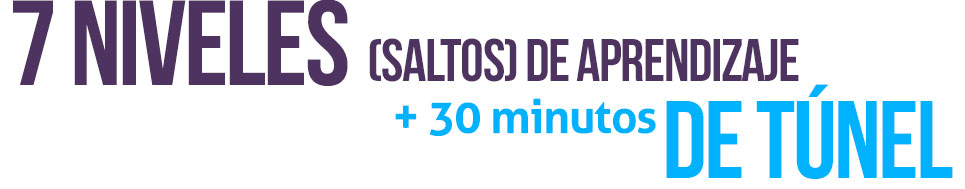
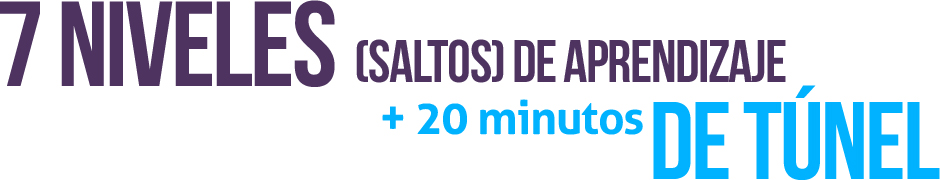
.

Changed region(s): [[0.0, 0.0, 1.0, 1.0]]

diff --git a/plantillas/academia.php b/plantillas/academia.php
@@ -10,7 +10,7 @@ get_header("academia");
 <section id="niveles-academia">
     <div class="wrapper">
         <img src="<?php echo get_template_directory_uri(); ?>/less/img/academia/7niveles.jpg"
-            alt="7 niveles (saltos) de aprendizaje + 40 min de Túnel">
+            alt="7 niveles (saltos) de aprendizaje + 20 min de Túnel">
         <p>En el centro de Paracaidismo de Tequesquitengo, Skydive México y Academia Paracaidismo ofrecemos cursos de
             caída libre acelerada (AFF). Tu seguridad y aprendizaje son nuestros objetivos principales.</p>
 
@@ -21,7 +21,7 @@ get_header("academia");
                     <h2>NIVEL 1</h2>
                     <p>Teoría y 1er nivel (salto).</p>
                     <p>Duración: ½ - ¾ de día. Llegar 9am.</p>
-                    <p>Incluye 4 minutos de práctica en túnel.</p>
+                    
                 </div>
             </div>
             <div class="column">
@@ -37,7 +37,7 @@ get_header("academia");
                     <h2>NIVEL 3</h2>
                     <p>Introducción a giros y avances.
                         Duración: 3 horas.</p>
-                    <p>Incluye 8 minutos de práctica en el túnel.</p>
+                    <p>Incluye 4 minutos de práctica en el túnel.</p>
                 </div>
             </div>
             <div class="column">
@@ -45,7 +45,7 @@ get_header("academia");
                     <h2>NIVEL 4</h2>
                     <p>Demuestra tu habilidad para volar solo y mantener rumbo.
                         Duración: 3 horas.</p>
-                    <p>Incluye 10 minutos de práctica en el túnel.</p>
+                    <p>Incluye 6 minutos de práctica en el túnel.</p>
                 </div>
             </div>
         </div>
@@ -56,7 +56,7 @@ get_header("academia");
                     <h2>NIVEL 5</h2>
                     <p>Salida sin contacto y estabilidad.
                         Duración: 3 horas.</p>
-                    <p>Incluye 6 minutos de práctica en el túnel.</p>
+                    <p>Incluye 4 minutos de práctica en el túnel.</p>
                 </div>
             </div>
             <div class="column">
@@ -88,12 +88,12 @@ get_header("academia");
         </div>
 
         <div class="info">
-            <p><strong>SE INCLUYEN 40 MINUTOS DE PRÁCTICA EN EL TÚNEL DE VIENTO TORNADO.</strong></p>
+            <p><strong>SE INCLUYEN 20 MINUTOS DE PRÁCTICA EN EL TÚNEL DE VIENTO TORNADO.</strong></p>
 
             <p>Esta práctica, además de aumentar tu seguridad y confianza en caída libre, te ayuda a progresar mucho más
                 rápido en tu curso de paracaidismo. Aparte de ser una actividad divertida y única en México. <strong> ES
                     El
-                ÚNICO CURSO EN EL MUNDO</strong> que ya incluye 40 minutos de túnel de viento, equivalentes a más de
+                ÚNICO CURSO EN EL MUNDO</strong> que ya incluye 20 minutos de túnel de viento, equivalentes a más de
                         30
                         saltos del avión!</p>
         </div>
@@ -115,7 +115,7 @@ get_header("academia");
                 </tr>
             </thead>
             <tr class="total">
-                <td colspan="2">1° práctica en túnel de viento: 4 minutos</td>
+                <td colspan="2">&nbsp;</td>
                 <td>Incluido</td>
                 <td>Incluido</td>
 
@@ -141,7 +141,7 @@ get_header("academia");
 
             </tr>
             <tr class="total">
-                <td colspan="2">3° práctica en túnel de viento: 8 minutos</td>
+                <td colspan="2">3° práctica en túnel de viento: 4 minutos</td>
                 <td>Incluido</td>
                 <td>Incluido</td>
 
@@ -156,7 +156,7 @@ get_header("academia");
 
             </tr>
             <tr class="total">
-                <td colspan="2">4° práctica en túnel de viento: 10 minutos</td>
+                <td colspan="2">4° práctica en túnel de viento: 6 minutos</td>
                 <td>Incluido</td>
                 <td>Incluido</td>
 
@@ -169,7 +169,7 @@ get_header("academia");
 
             </tr>
              <tr class="total">
-                <td colspan="2">5° práctica en túnel de viento: 6 minutos</td>
+                <td colspan="2">5° práctica en túnel de viento: 4 minutos</td>
                 <td>Incluido</td>
                 <td>Incluido</td>
 
@@ -182,7 +182,7 @@ get_header("academia");
 
             </tr>
             <tr class="total">
-                <td colspan="2">6° práctica en túnel de viento: 6 minutos</td>
+                <td colspan="2">&nbsp;</td>
                 <td>Incluido</td>
                 <td>Incluido</td>
 
@@ -333,7 +333,7 @@ get_header("academia");
         <div class="flex cols-4">
             <div class="column">
                 <div class="beneficio alberca">
-                    <h3>ALBERCA <span>seguros</span></h3>
+                    <h3>ALBERCA <span>segura</span></h3>
                 </div>
             </div>
             <div class="column">

diff --git a/plantillas/faq.php b/plantillas/faq.php
@@ -15,7 +15,7 @@ get_header();
                 </div>
 
                 <div class="respuesta">
-                  <p>ToTodas las actividades aéreas dependen de buenas condiciones meteorológicas, que son por norma general las que tenemos aquí en Tequesquitengo y en el estado de Morelos. De cualquier forma condiciones como lluvia o vientos fuertes hacen este deporte impracticable. Si no pudiese realizar su salto por esta circunstancia puede cambiar la fecha de su salto sin ningún pago adicional. Tiene 3 meses para cambiar su reserva partiendo del día del pago de su depósito.</p>
+                  <p>Todas las actividades aéreas dependen de buenas condiciones meteorológicas, que son por norma general las que tenemos aquí en Tequesquitengo y en el estado de Morelos. De cualquier forma condiciones como lluvia o vientos fuertes hacen este deporte impracticable. Si no pudiese realizar su salto por esta circunstancia puede cambiar la fecha de su salto sin ningún pago adicional. Tiene 3 meses para cambiar su reserva partiendo del día del pago de su depósito.</p>
                 </div>
             </li>
 
